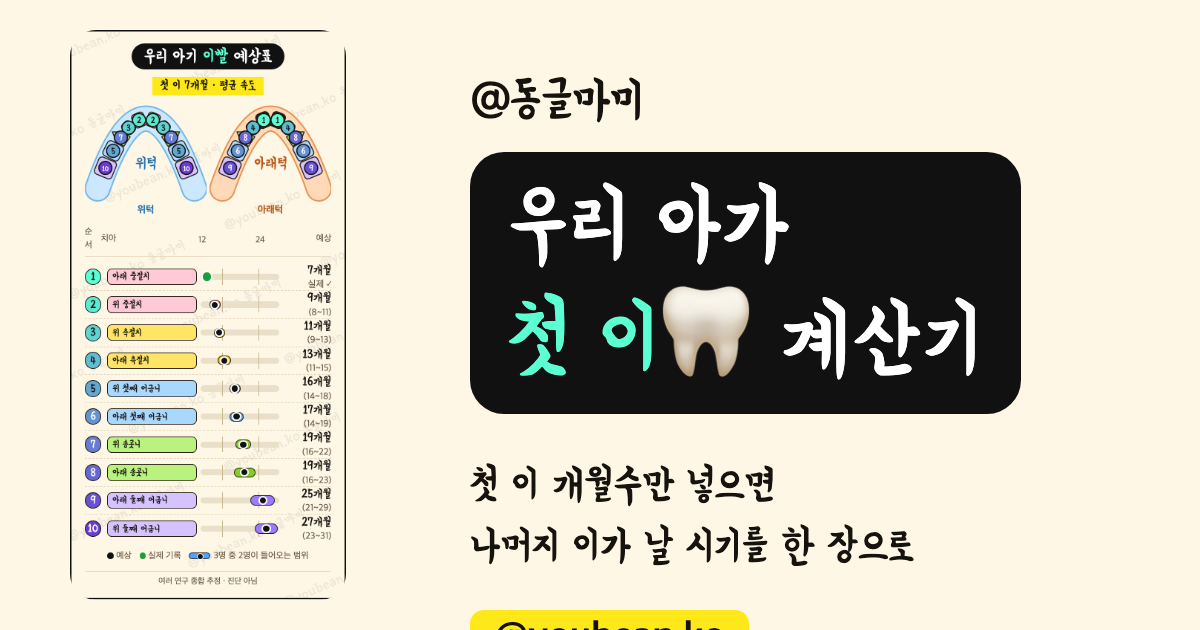
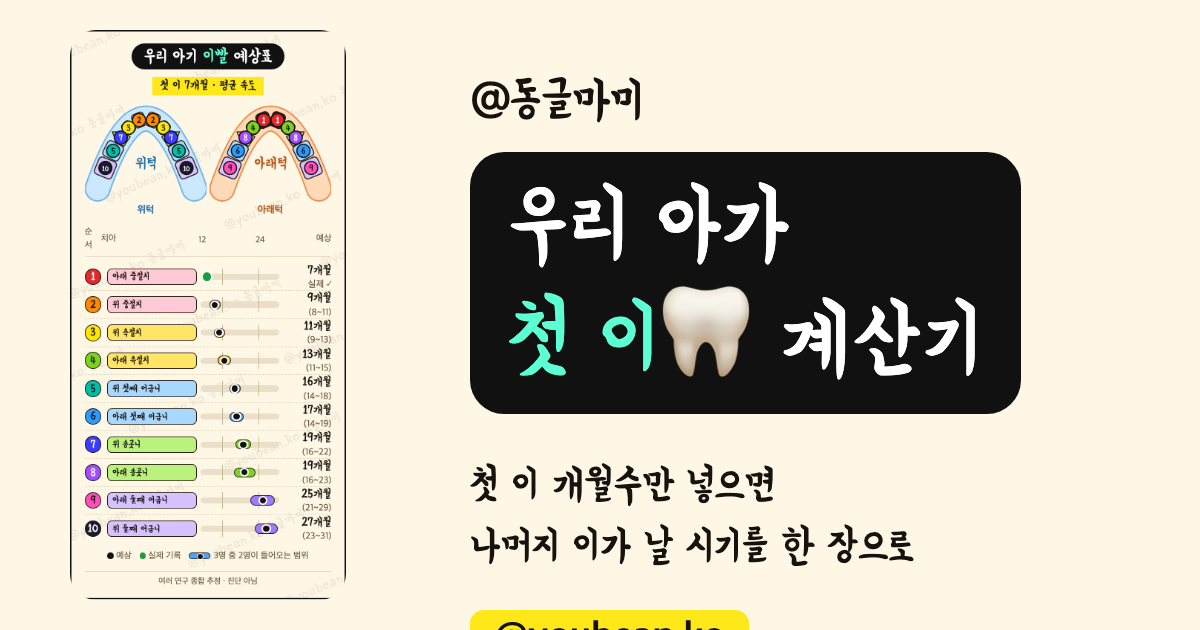
Distinct 10-color palette for order numbers

diff --git a/index.html b/index.html
@@ -305,10 +305,10 @@ var SAT = {central:'#F48FB1', lateral:'#FFC400', canine:'#7ED321', m1:'#4DA3FF',
 var INK = '#2B2118';
 var GUM = {u:['#6FB6EA','#CBE8FF'], l:['#E8914F','#FFD9B8']};
 var JAWTXT = {u:['위턱','#1F6FA8'], l:['아래턱','#B65A1C']};
+var PALETTE = [['#E5262B','#fff'],['#FF8A00','#111'],['#FFE600','#111'],['#7ED321','#111'],['#00BFA6','#111'],['#2D9CFF','#111'],['#3D3BFF','#fff'],['#A24BFF','#fff'],['#FF4FB8','#111'],['#1B1B2F','#fff']];
 function ramp(k){
-  var a = [92,255,209], b = [108,59,209], t = (k - 1) / 9, c = a.map(function(v, i){ return Math.round(v + (b[i] - v) * t); });
-  var lum = (0.299 * c[0] + 0.587 * c[1] + 0.114 * c[2]) / 255;
-  return {bg:'rgb(' + c.join(',') + ')', fg: lum > 0.55 ? '#111' : '#fff'};
+  var p = PALETTE[k - 1];
+  return {bg:p[0], fg:p[1]};
 }
 
 function rho(k){ return 0.70 - 0.40 * (k - 1) / 9; }
